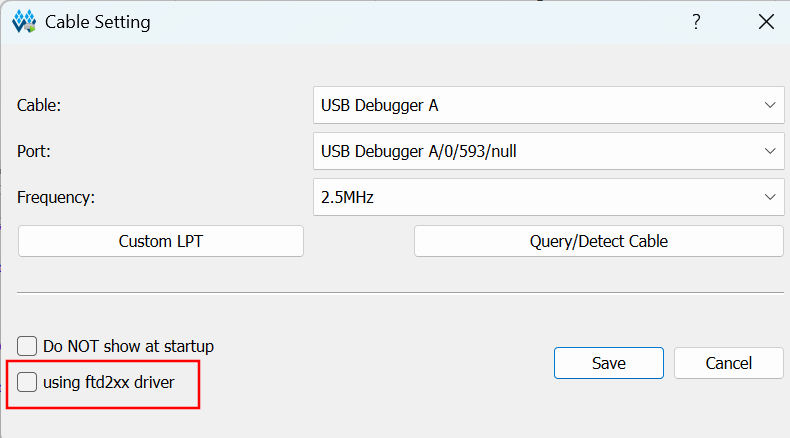
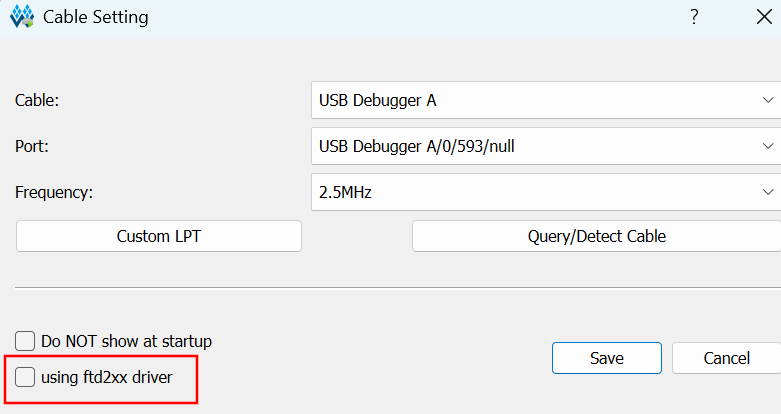
readme: include instructions on programmer connection settings

diff --git a/README.md b/README.md
@@ -235,7 +235,10 @@ The most commonly used are listed below.
 
 ### Windows
 
-Support for Windows is coming soon!
+Support for scripted programming in Windows is coming soon! If you use GOWIN EDA or Programmer, ensure that you connect to the board with 'using ftd2xx driver' unselected:
+
+![Alt text](img/programmer_connection_settings.png)
+
 <br><br>
 
 ## Board Demonstration
